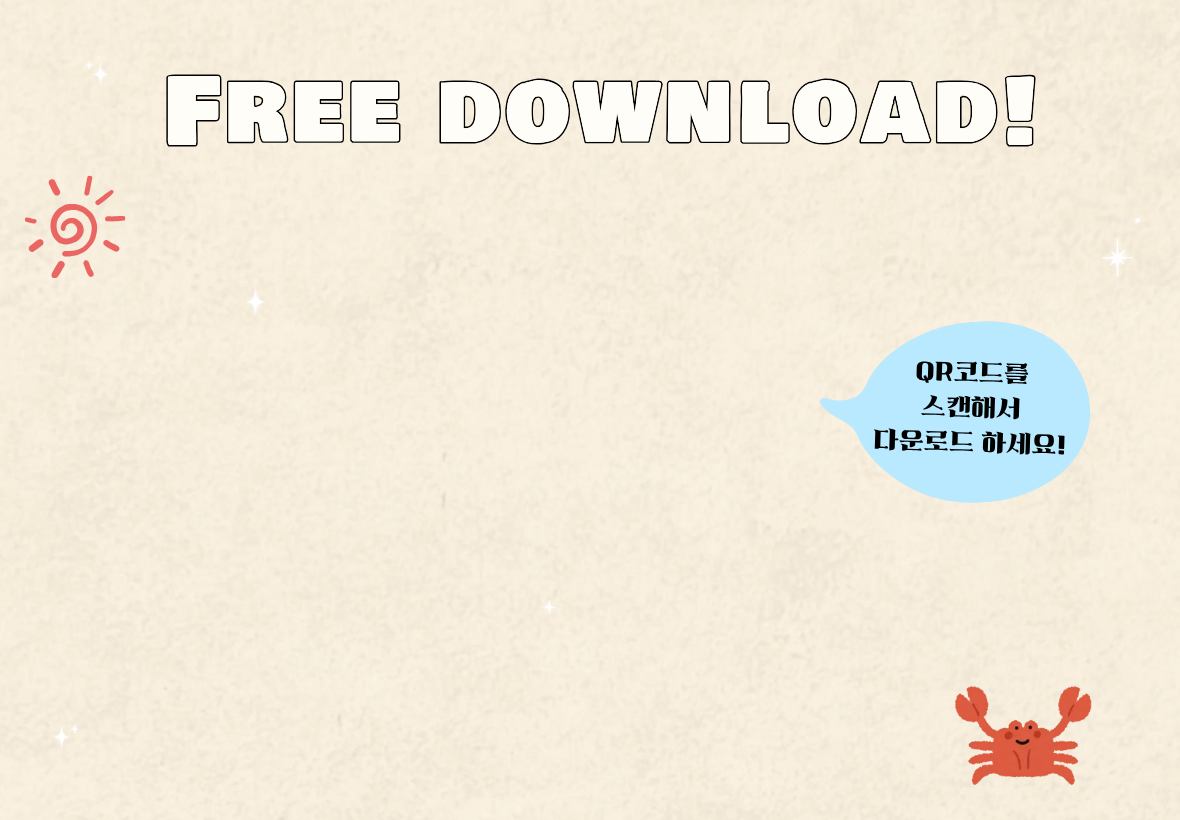
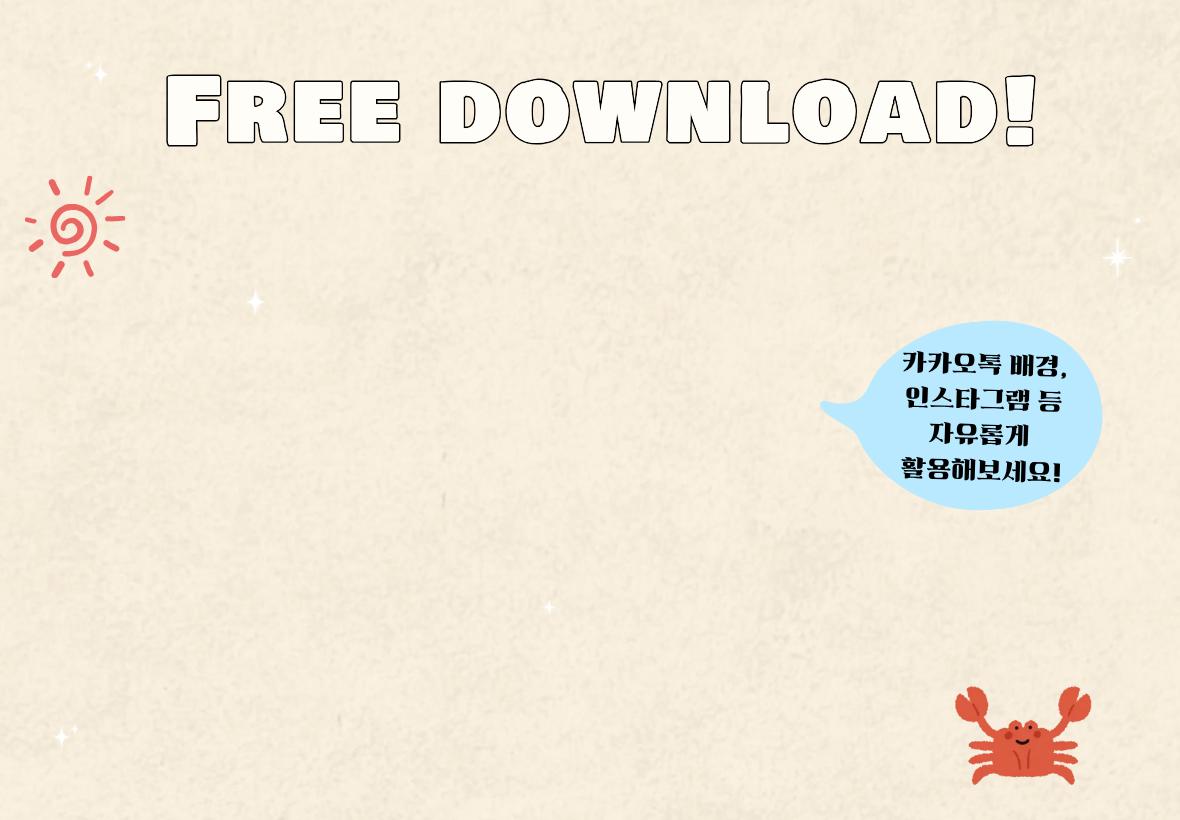
수정

Changed region(s): [[0.7322, 0.3963, 0.9458, 0.6402], [0.7017, 0.4878, 0.7322, 0.5183]]

diff --git a/index.html b/index.html
@@ -32,13 +32,7 @@
   }
   #flash.on { opacity: 1; }
 
-  /* ═══ SCREEN 1 — MAIN ═══ */
-  #screen-main {
-    position: relative;
-    width: 100%; height: 100%;
-  }
-
-  /* 배경 이미지 */
+  /* 배경 이미지 공통 */
   .bg-image {
     position: absolute; inset: 0;
     width: 100%; height: 100%;
@@ -47,7 +41,12 @@
     z-index: 0;
   }
 
-  /* 라이브뷰 — main */
+  /* ═══ SCREEN 1 — MAIN ═══ */
+  #screen-main {
+    position: relative;
+    width: 100%; height: 100%;
+  }
+
   #main-video-wrap {
     position: absolute;
     left: 329px; top: 194px;
@@ -63,7 +62,6 @@
     display: block;
   }
 
-  /* 시작하기 버튼 */
   #btn-start {
     position: absolute;
     left: 50%; bottom: 52px;
@@ -90,7 +88,6 @@
     width: 100%; height: 100%;
   }
 
-  /* 라이브뷰 — shoot */
   #shoot-video-wrap {
     position: absolute;
     left: 219px; top: 82px;
@@ -106,7 +103,6 @@
     display: block;
   }
 
-  /* 1/2 카운터 */
   #hud-count {
     position: absolute;
     top: 20px; right: 28px;
@@ -116,7 +112,6 @@
     color: #000000;
   }
 
-  /* 알림 오버레이 (3초) */
   #notify-overlay {
     position: absolute;
     inset: 0;
@@ -128,10 +123,7 @@
   }
   #notify-overlay.show { display: flex; }
 
-  .notify-box {
-    text-align: center;
-    color: #fff;
-  }
+  .notify-box { text-align: center; color: #fff; }
   .notify-title {
     font-family: 'Fredoka One', cursive;
     font-size: 48px;
@@ -146,10 +138,9 @@
     letter-spacing: 0.08em;
   }
 
-  /* 카운트다운 오버레이 */
   #countdown-overlay {
     position: absolute;
-    top: 50px;
+    top: 70px;
     left: 50%;
     transform: translateX(-50%);
     z-index: 8;
@@ -180,7 +171,6 @@
     width: 100%; height: 100%;
   }
 
-  /* 결과 사진 — 배경 위 중앙 */
   #result-img-wrap {
     position: absolute;
     left: 50%; top: 50%;
@@ -196,7 +186,6 @@
     box-shadow: 0 8px 40px rgba(0,0,0,0.2);
   }
 
-  /* 버튼 3개 */
   .result-btns {
     position: absolute;
     bottom: 40px; left: 50%;
@@ -234,29 +223,48 @@
   #screen-qr {
     position: relative;
     width: 100%; height: 100%;
-    display: none;
+  }
+
+  #qr-content {
+    position: absolute;
+    inset: 0;
+    display: flex;
     flex-direction: column;
     align-items: center;
     justify-content: center;
     gap: 20px;
-    background: linear-gradient(160deg, #e8f5fd 0%, #c8e8f8 60%, #a0d0ef 100%);
+    z-index: 1;
   }
-  #screen-qr.active { display: flex; }
 
-  .qr-title {
-    font-family: 'Fredoka One', cursive;
-    font-size: 32px; color: #fff;
-    letter-spacing: 0.1em;
-    text-shadow: 0 2px 12px rgba(90,176,224,0.5);
+  #qr-status {
+    font-family: 'Noto Sans KR', sans-serif;
+    font-size: 15px;
+    color: #4a6070;
+    letter-spacing: 0.08em;
   }
-  #qr-status { font-size: 15px; color: #4a6070; letter-spacing: 0.08em; }
+
   #qr-box {
-    padding: 20px; background: white;
+    padding: 20px;
+    background: white;
     border-radius: 12px;
     box-shadow: 0 4px 24px rgba(90,176,224,0.2);
   }
-  .qr-hint { font-size: 16px; color: #4a6070; text-align: center; line-height: 1.8; }
-  .qr-brand { font-size: 11px; letter-spacing: 0.2em; color: #4a6070; font-weight: 700; }
+
+  .qr-hint {
+    font-family: 'Noto Sans KR', sans-serif;
+    font-size: 16px;
+    color: #4a6070;
+    text-align: center;
+    line-height: 1.8;
+  }
+
+  .qr-brand {
+    font-family: 'Noto Sans KR', sans-serif;
+    font-size: 11px;
+    letter-spacing: 0.2em;
+    color: #4a6070;
+    font-weight: 700;
+  }
 
   #cap-canvas { display: none; }
   #result-canvas { display: none; }
@@ -283,19 +291,13 @@
   <div id="shoot-video-wrap">
     <video id="shoot-video" autoplay playsinline muted></video>
   </div>
-
-  <!-- 1/2 카운터 -->
   <div id="hud-count">1/2</div>
-
-  <!-- 3초 알림 오버레이 -->
   <div id="notify-overlay">
     <div class="notify-box">
       <div class="notify-title">2번 촬영됩니다</div>
       <div class="notify-sub">카메라 위치는 왼쪽에 있어요 📷</div>
     </div>
   </div>
-
-  <!-- 카운트다운 -->
   <div id="countdown-overlay">
     <span id="countdown-num">5</span>
   </div>
@@ -316,12 +318,14 @@
 
 <!-- ══ SCREEN 5: QR ══ -->
 <div id="screen-qr" class="screen">
-  <p class="qr-title">QR코드를 스캔하세요</p>
-  <p id="qr-status">업로드 중...</p>
-  <div id="qr-box"></div>
-  <p class="qr-hint">스캔하면 사진을 저장할 수 있어요 📷</p>
-  <p class="qr-brand">made by. NUVY.PHOTO</p>
-  <button class="btn-sub" onclick="goHome()">처음으로</button>
+  <img class="bg-image" src="qr_bg.png" alt="">
+  <div id="qr-content">
+    <p id="qr-status">업로드 중...</p>
+    <div id="qr-box"></div>
+    <p class="qr-hint">스캔하면 사진을 저장할 수 있어요 📷</p>
+    <p class="qr-brand">made by. NUVY.PHOTO</p>
+    <button class="btn-sub" onclick="goHome()">처음으로</button>
+  </div>
 </div>
 
 <!-- Firebase -->
@@ -373,11 +377,14 @@ async function startCamera() {
 
 // ══════════════════════════════════════
 //  TEMPLATE 설정
+//  사진 슬롯: 280×248px
+//  photo1: x:227, y:189
+//  photo2: x:227, y:531
 // ══════════════════════════════════════
 const TEMPLATE = {
   w: 735, h: 980,
-  photo1: { x: 238, y: 200, w: 260, h: 230 },
-  photo2: { x: 238, y: 522, w: 260, h: 230 },
+  photo1: { x: 227, y: 189, w: 280, h: 248 },
+  photo2: { x: 227, y: 531, w: 280, h: 248 },
 };
 
 let capturedFrames = [];
@@ -402,7 +409,6 @@ function startShooting() {
   goTo('screen-shoot');
   document.getElementById('hud-count').textContent = '1/2';
 
-  // 3초 알림 먼저 표시
   const notify = document.getElementById('notify-overlay');
   notify.classList.add('show');
   setTimeout(() => {
@@ -438,7 +444,6 @@ function scheduleNextShot() {
 }
 
 function captureFrame() {
-  // 플래시
   const flash = document.getElementById('flash');
   flash.classList.add('on');
   setTimeout(() => flash.classList.remove('on'), 120);
@@ -453,12 +458,14 @@ function captureFrame() {
   if (vw / vh > targetR) { sw = vh * targetR; sx = (vw - sw) / 2; }
   else { sh = vw / targetR; sy = (vh - sh) / 2; }
 
-  tmpCanvas.width  = slot.w;
-  tmpCanvas.height = slot.h;
+  // 3배 스케일로 촬영 → 화질 선명
+  const SCALE = 3;
+  tmpCanvas.width  = slot.w * SCALE;
+  tmpCanvas.height = slot.h * SCALE;
   const ctx = tmpCanvas.getContext('2d');
-  ctx.translate(slot.w, 0);
+  ctx.translate(tmpCanvas.width, 0);
   ctx.scale(-1, 1);
-  ctx.drawImage(video, sx, sy, sw, sh, 0, 0, slot.w, slot.h);
+  ctx.drawImage(video, sx, sy, sw, sh, 0, 0, tmpCanvas.width, tmpCanvas.height);
 
   capturedFrames.push(tmpCanvas.toDataURL('image/jpeg', 0.95));
   shootIndex++;
@@ -483,7 +490,7 @@ async function compositeAndShow() {
   ctx.fillStyle = '#ffffff';
   ctx.fillRect(0, 0, TEMPLATE.w, TEMPLATE.h);
 
-  // 사진 먼저 (아래)
+  // 사진 먼저 (아래) — 슬롯 좌표에 맞게 축소해서 그리기
   const slots = [TEMPLATE.photo1, TEMPLATE.photo2];
   for (let i = 0; i < 2; i++) {
     const img = new Image();
